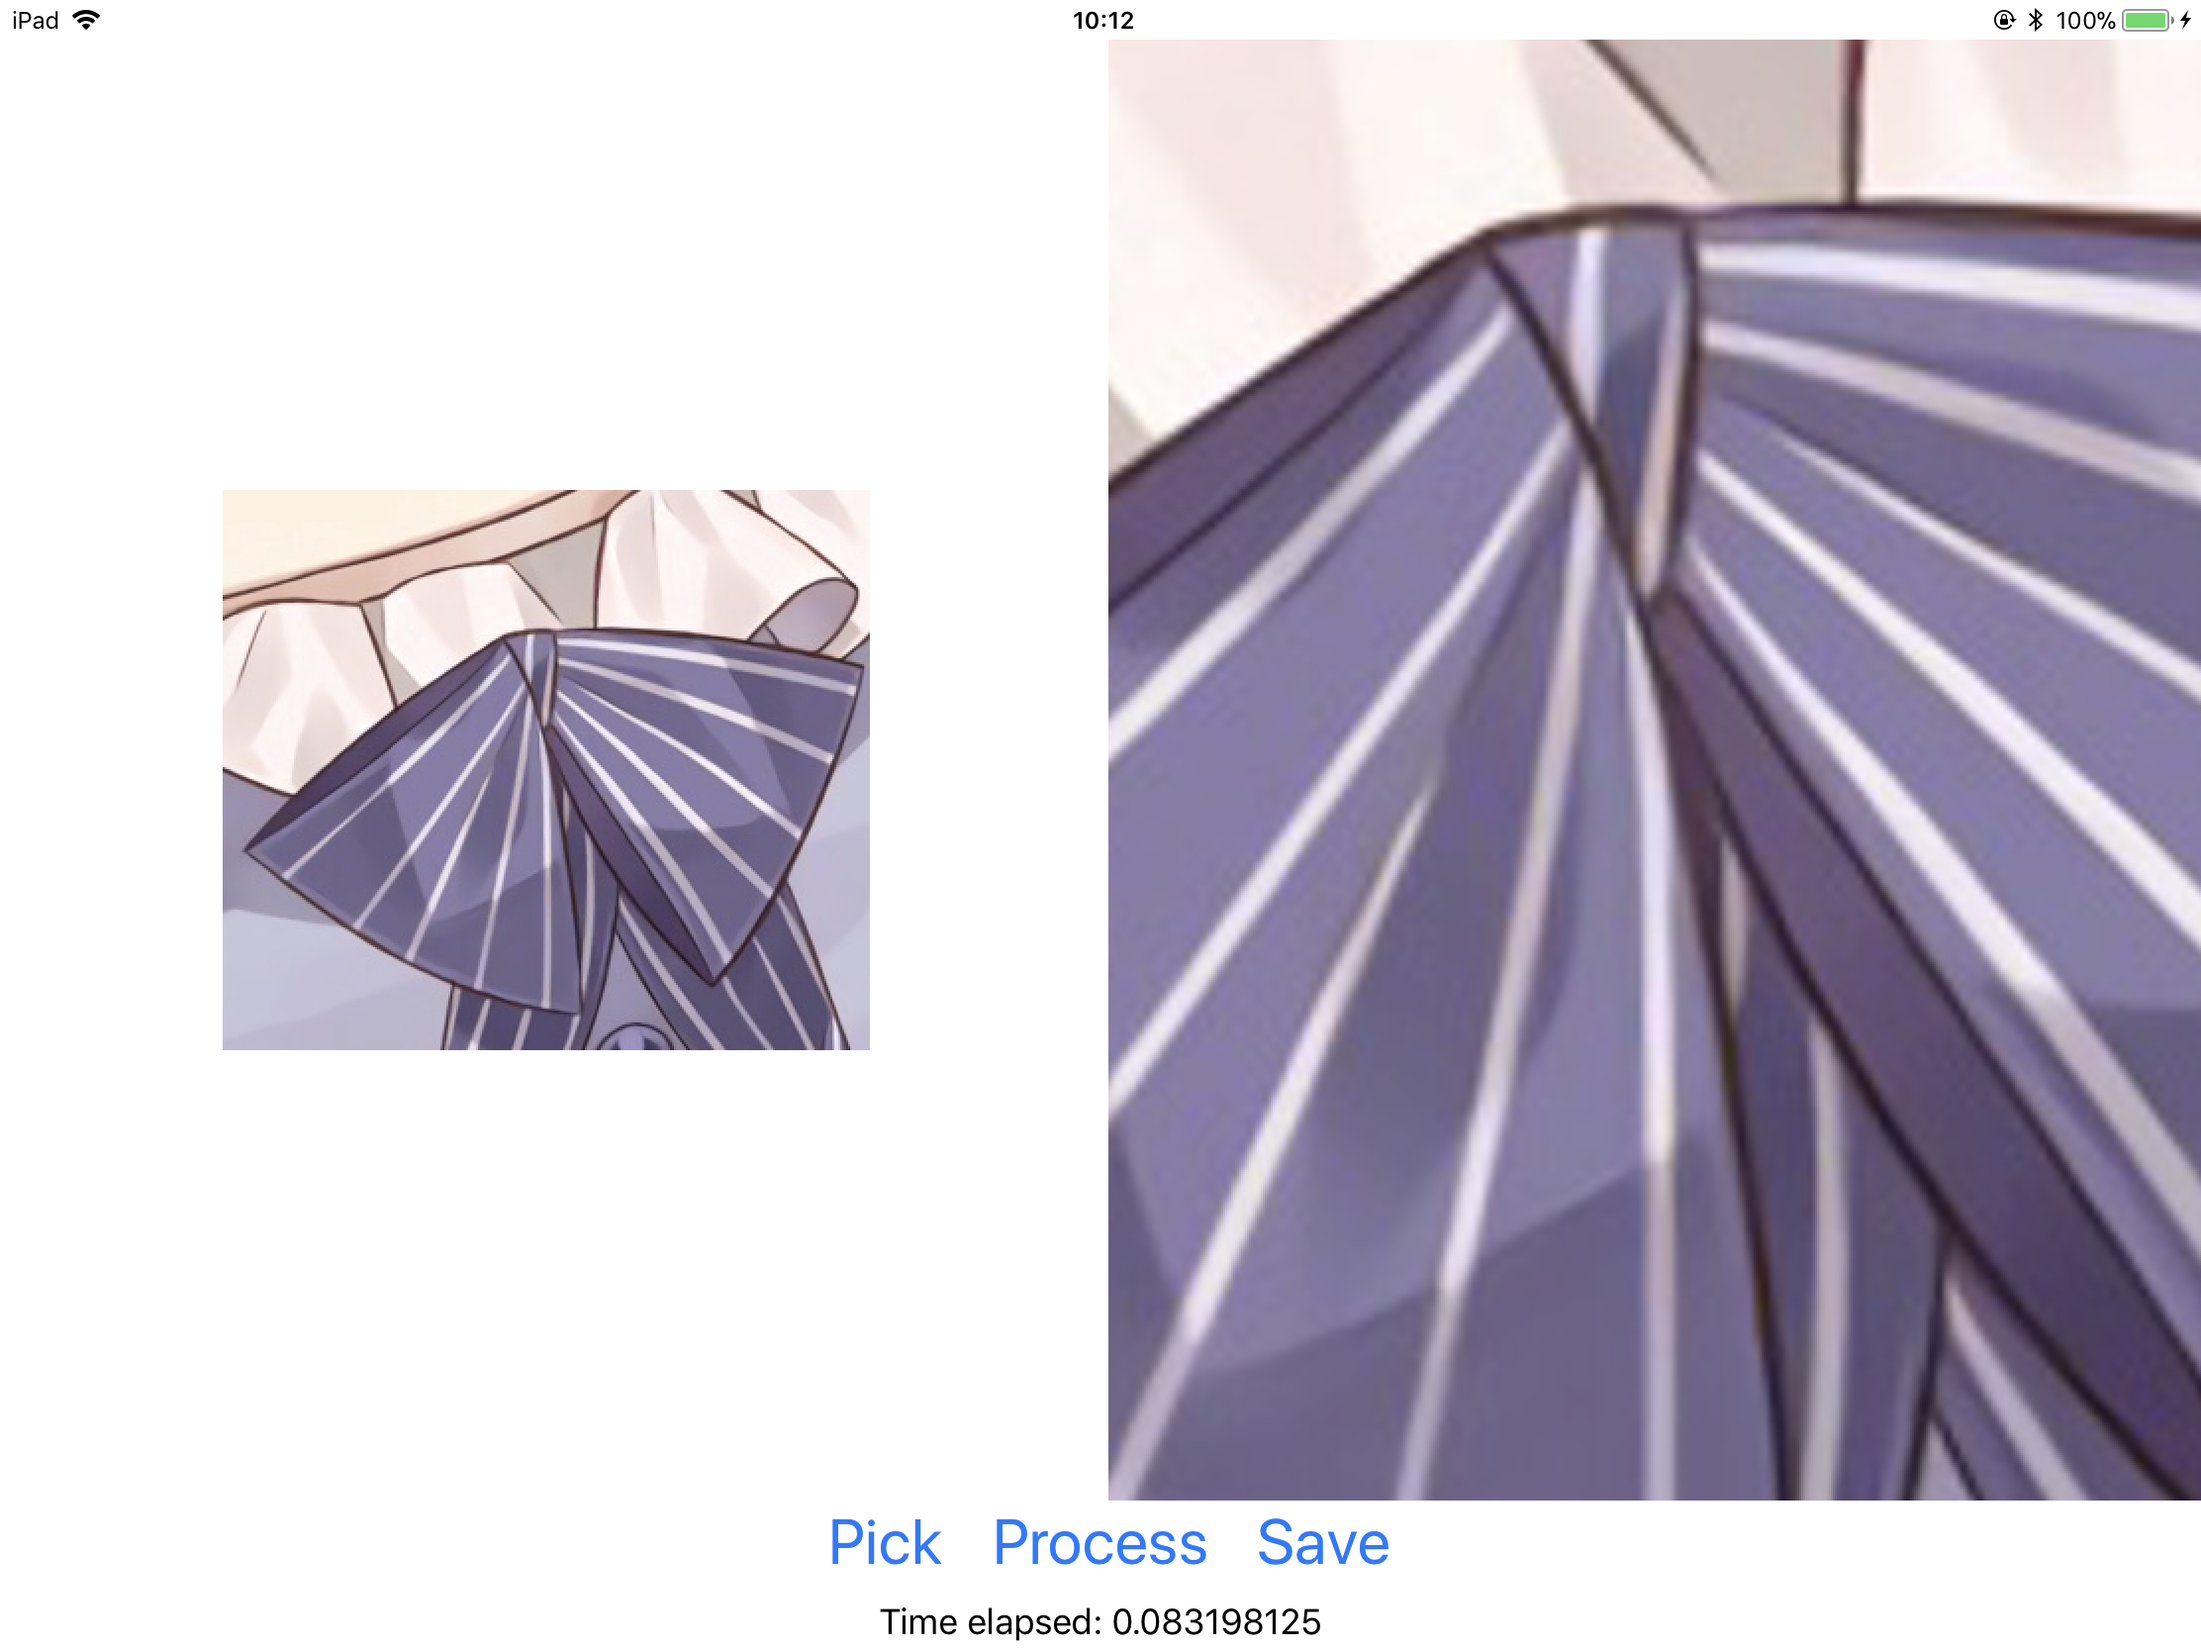
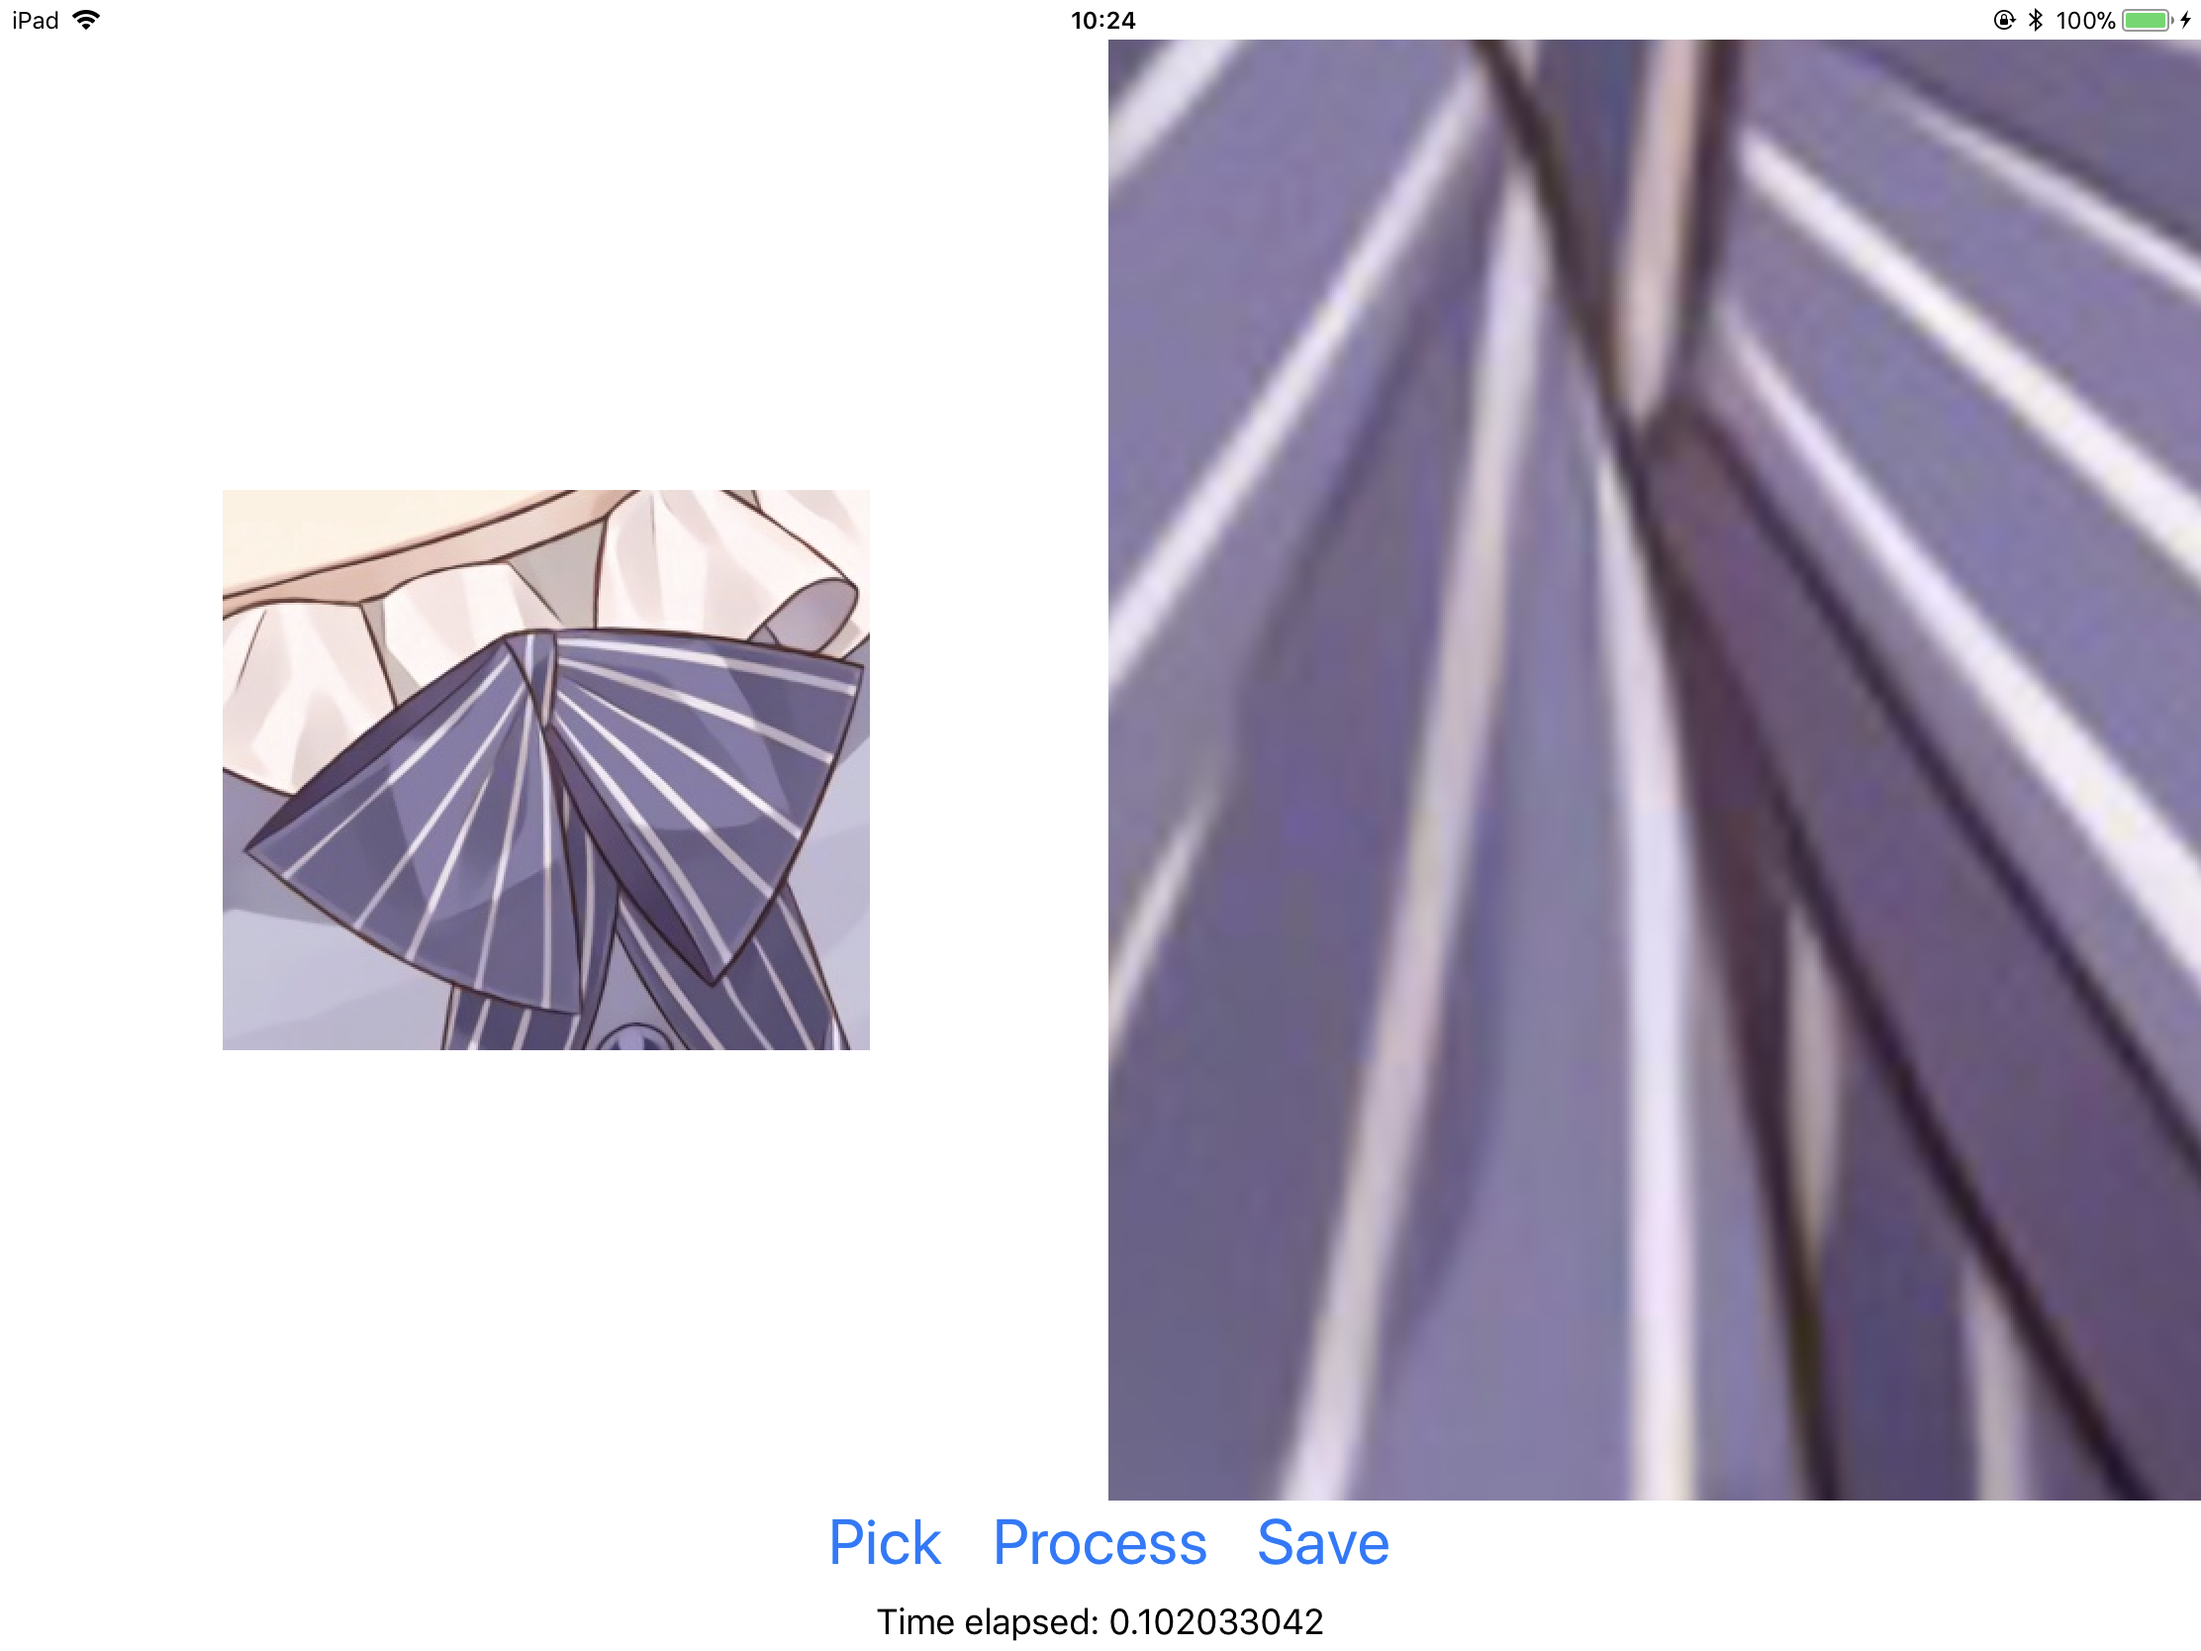
replace screenshot, distinction is more significant

diff --git a/MetalResizeDemo/ViewController.swift b/MetalResizeDemo/ViewController.swift
@@ -45,7 +45,7 @@ class ViewController: UIViewController, UINavigationControllerDelegate, UIImageP
         background.async {
             do {
                 let mr = try MetalResize()
-                self.outImage = mr.resize(self.inImage, 4.0, type)
+                self.outImage = mr.resize(self.inImage, 2.0, type)
                 let end = DispatchTime.now()
                 let nanotime = end.uptimeNanoseconds - start.uptimeNanoseconds
                 let timeInterval = Double(nanotime) / 1_000_000_000

diff --git a/README.md b/README.md
@@ -7,7 +7,7 @@ This is a fast image-resizing framework written in [Metal Performance Shaders](h
  - [Bicubic](https://en.wikipedia.org/wiki/Bicubic_interpolation)
 
 ## Demo
-This image is scaled to 4x in all methods.
+This image is scaled to 8x in all methods.
 ### Nearest-neighbor
 ![](screenshots/nearest.png)
 
